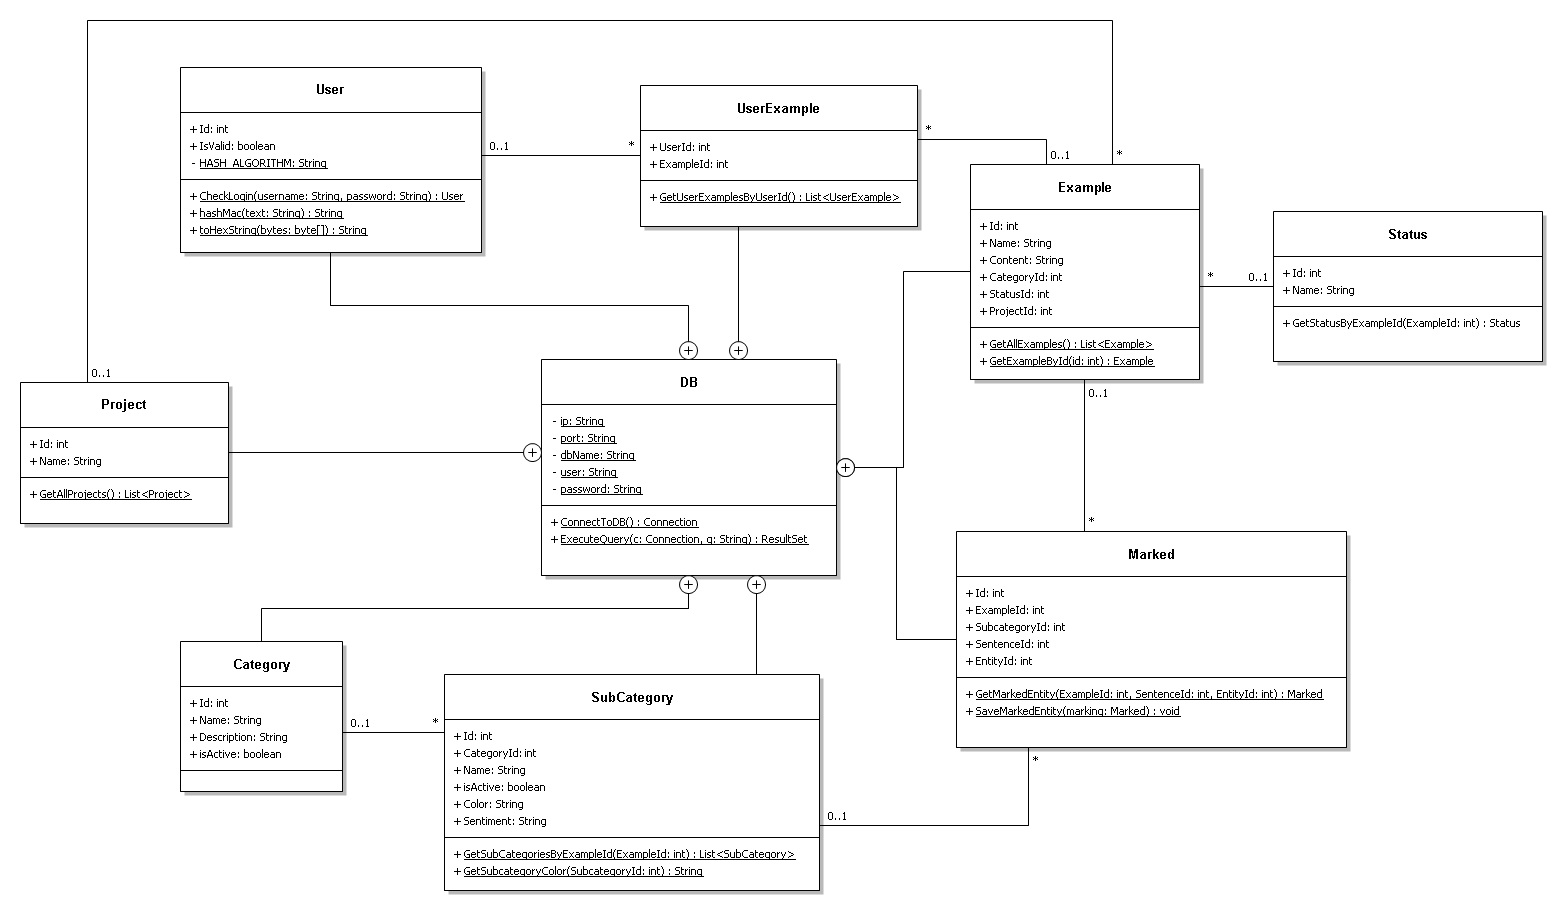
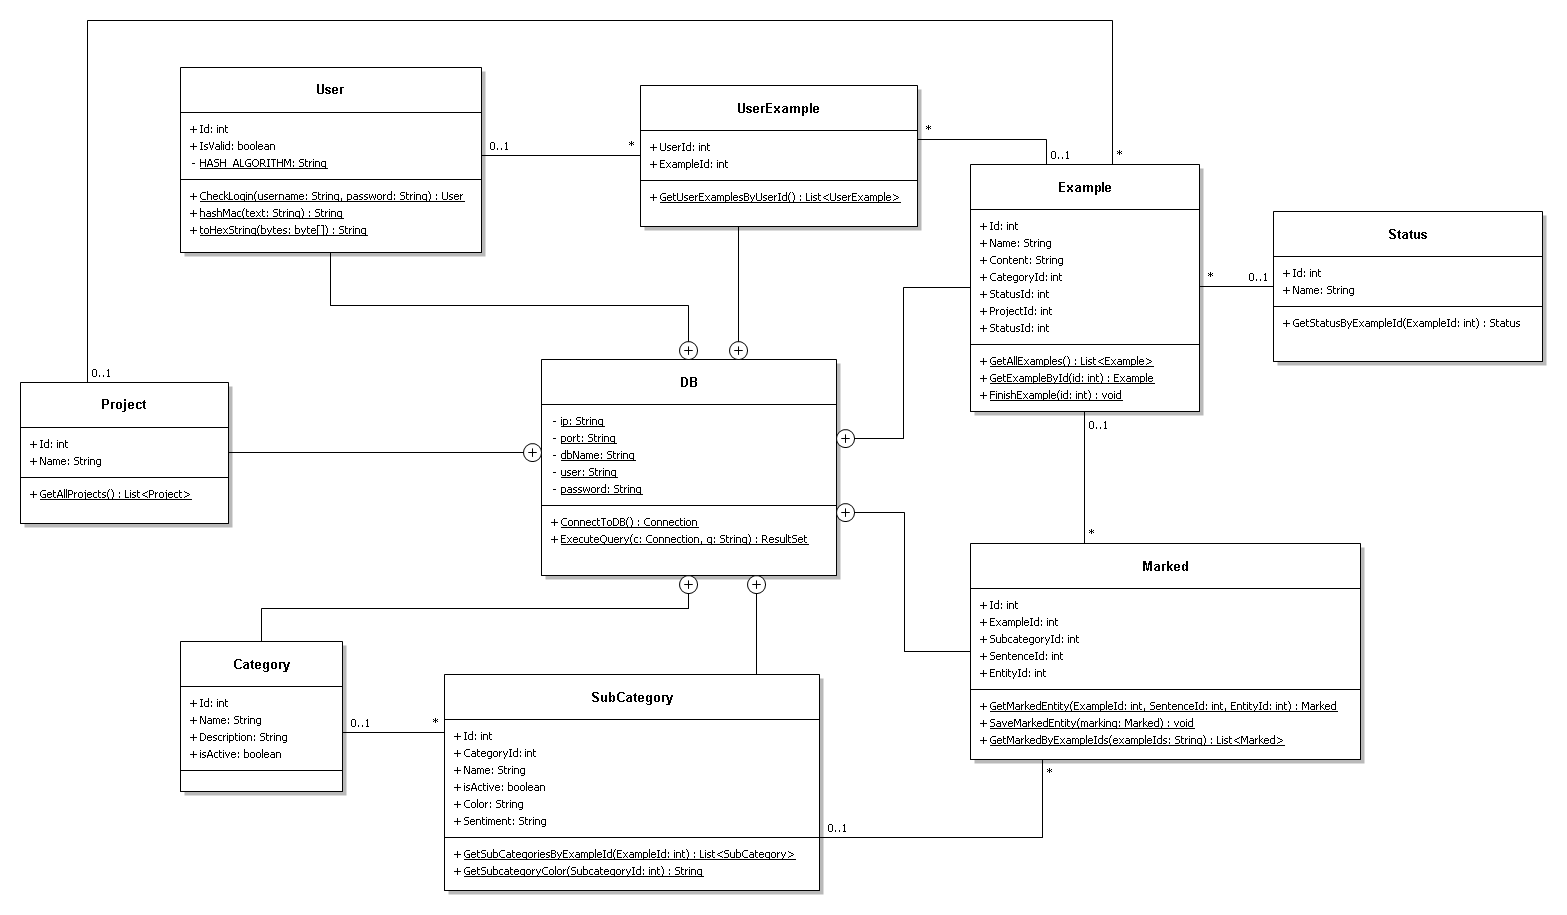
Slika za dokumentaciju i sitna izmjena kod projekta

diff --git a/.AndroidApp/app/src/main/java/com/example/mle/DB.java b/.AndroidApp/app/src/main/java/com/example/mle/DB.java
@@ -98,9 +98,11 @@ public class DB {
                     try {
                         if (rs.next()) {
                             e.Id = Integer.parseInt(rs.getString("Id"));
+                            e.Name = rs.getString("Name");
                             e.Content = rs.getString("Content");
                             e.CategoryId = Integer.parseInt(rs.getString("CategoryId"));
-                            e.Name = rs.getString("Name");
+                            e.ProjectId = Integer.parseInt(rs.getString("ProjectId"));
+                            e.StatusId = Integer.parseInt(rs.getString("StatusId"));
                         }
                     } catch (Exception ex) {
                     }
